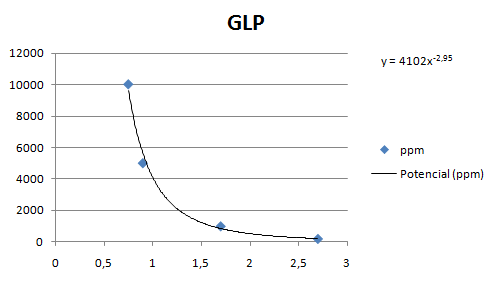
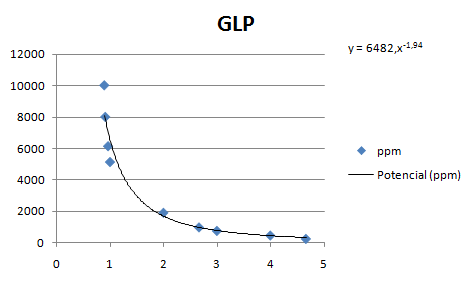
GLP fórmula reajustada

diff --git a/calculos/CALCULOS.md b/calculos/CALCULOS.md
@@ -46,21 +46,27 @@ double Alcohol = 0.337*pow(mq3_resistencia/5463, -1.45);
 
 Rs/Ro | ppm
 ------------ | -------------
-0.75 | 10000
-0.9 | 5000
-1.7 | 1000
-2.7 | 200
+0,892 | 10000
+0,91 | 8000
+0,964 | 6142,85
+1 | 5142,85
+2 | 1928,57
+2,666 | 1000
+3 | 778,57
+4 | 485,71
+4,666 | 271,42
+
 
 
 **Ecuación potencial**
 
 - Expresión:
 ```
-y = 4102x-2,95 
+y = 6482,x-1,94
 ```
 - Código:
 ```arduino
-double glp = 4102*pow(mq2_resistencia/5463, -2,95);
+double glp = 6482*pow(mq2_resistencia/5463, -1.94);
 ```
 
 
@@ -120,6 +126,8 @@ y = 71,78x-1,49
   
 
 ### Hidrógeno
+
+  double hidrogeno = 0.4091*pow(mq8_resistencia/5463, -1.497);
 
 ### Dióxido de Carbono
 
